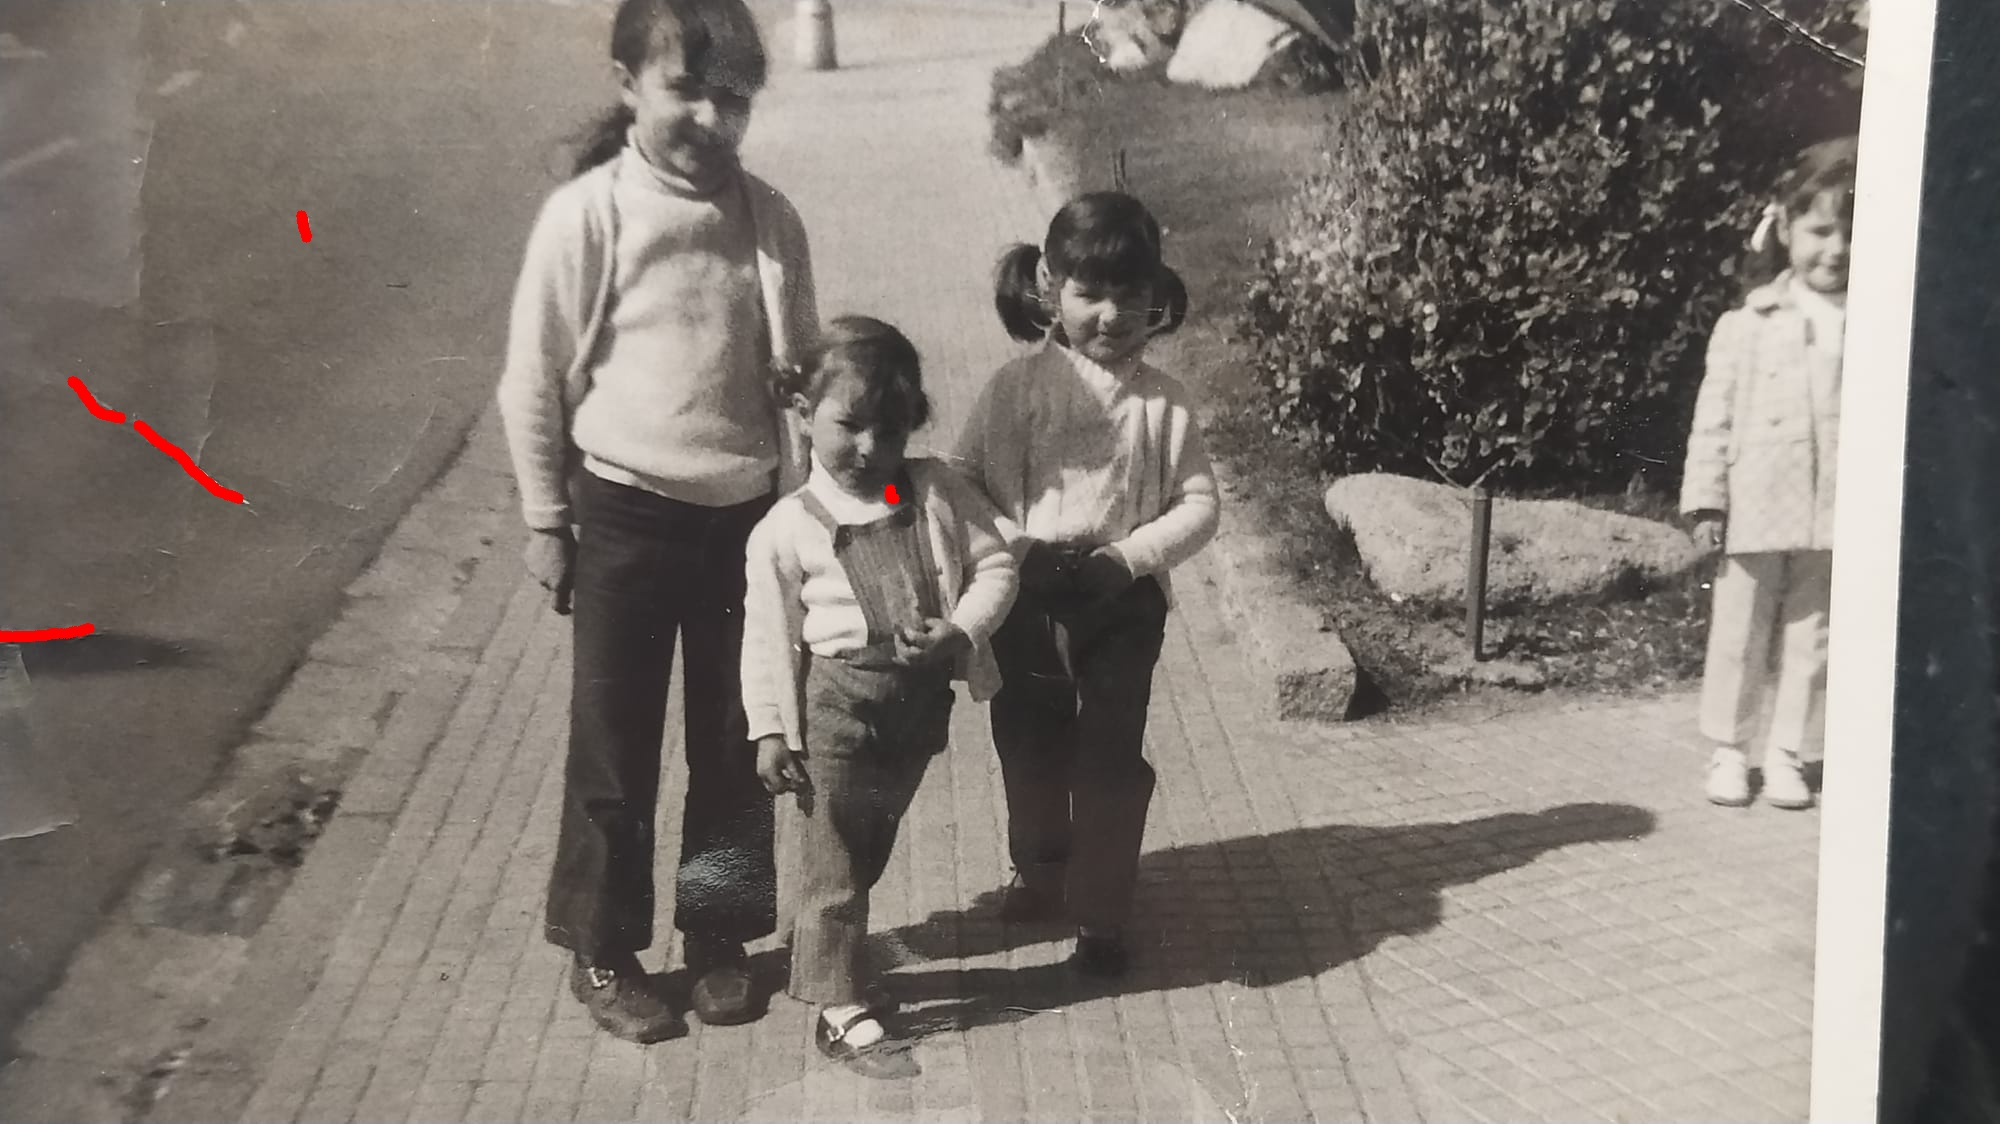
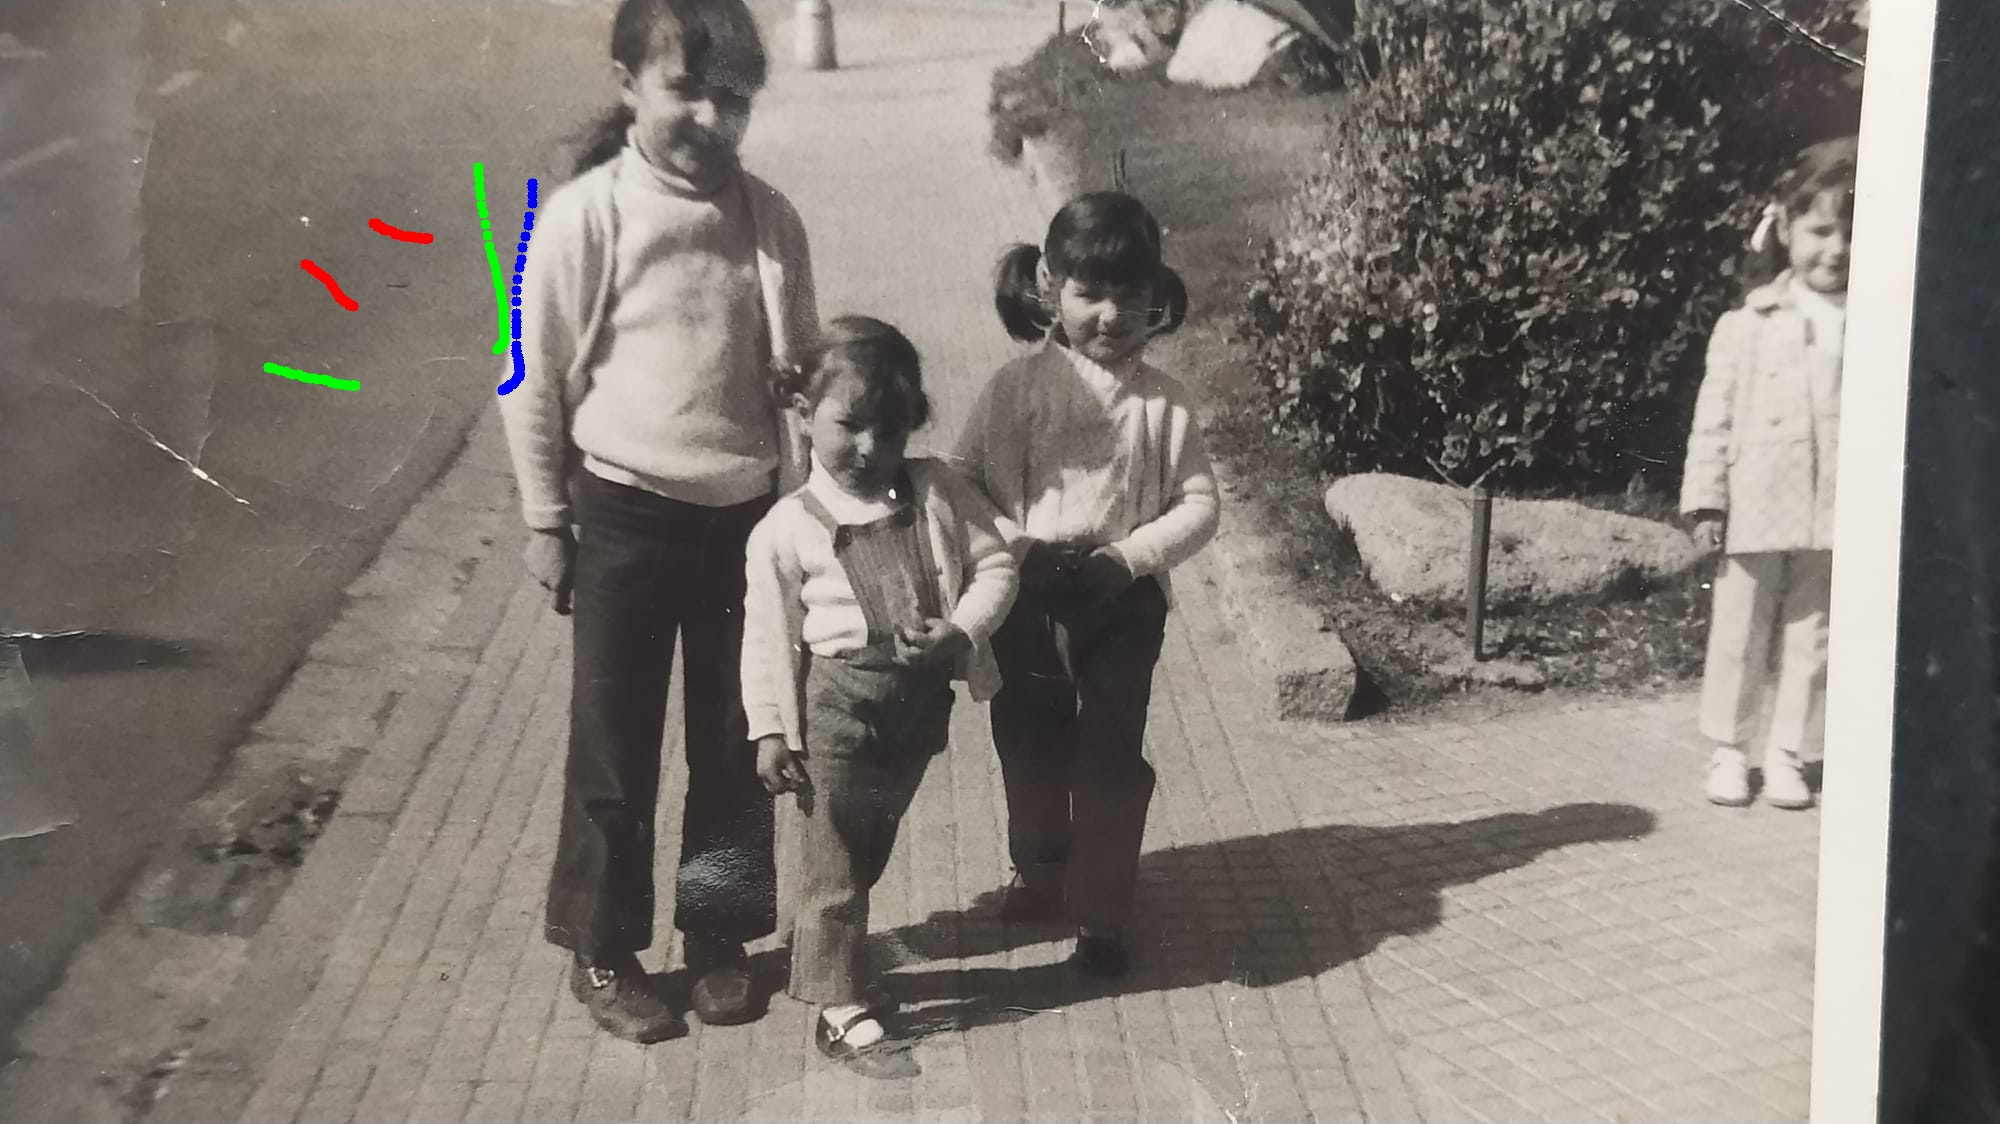
Displays the current brush size and color on the image window.

diff --git a/paint.py b/paint.py
@@ -26,10 +26,10 @@ def draw_circle(event, x, y, flags, param):
         cv2.circle(img, (x, y), brush_size, brush_color, -1)
 
 # Load the image
-img_path = "base.jpg"  # Ensure the image file is in the same directory as this script
+img_path = "base.jpg"  
 img = cv2.imread(img_path)
 if img is None:
-    print("Error: Could not load the image. Ensure 'base.jpg' is in the current directory.")
+    print(f"Error: Could not load the image. Ensure {img_path} is in the current directory.")
     exit()
 
 # Create a window and set the mouse callback function
@@ -44,8 +44,22 @@ print(" - Use '+' and '-' to increase or decrease brush size.")
 print(" - Use 'r', 'g', 'b' to change brush color to red, green, or blue.")
 print(" - Press 'u' to undo the last action.")
 
+# Map RGB values to color names
+color_names = {
+    (0, 0, 255): "Red",
+    (0, 255, 0): "Green",
+    (255, 0, 0): "Blue",
+}
+
 while True:
-    cv2.imshow("Draw on the Image", img)
+    color_name = color_names.get(brush_color, str(brush_color))
+    #cv2.imshow("Draw on the Image", img)
+    img_copy = img.copy()
+    text = f"Brush Size: {brush_size} | Color: {color_name}"
+    cv2.putText(img_copy, text, (10, 30), cv2.FONT_HERSHEY_SIMPLEX, 0.7, (255, 255, 255), 2, cv2.LINE_AA)
+    cv2.imshow("Draw on the Image", img_copy)
+    
+    
     key = cv2.waitKey(1) & 0xFF
 
     if key == ord("s"):  # Save the painted image
